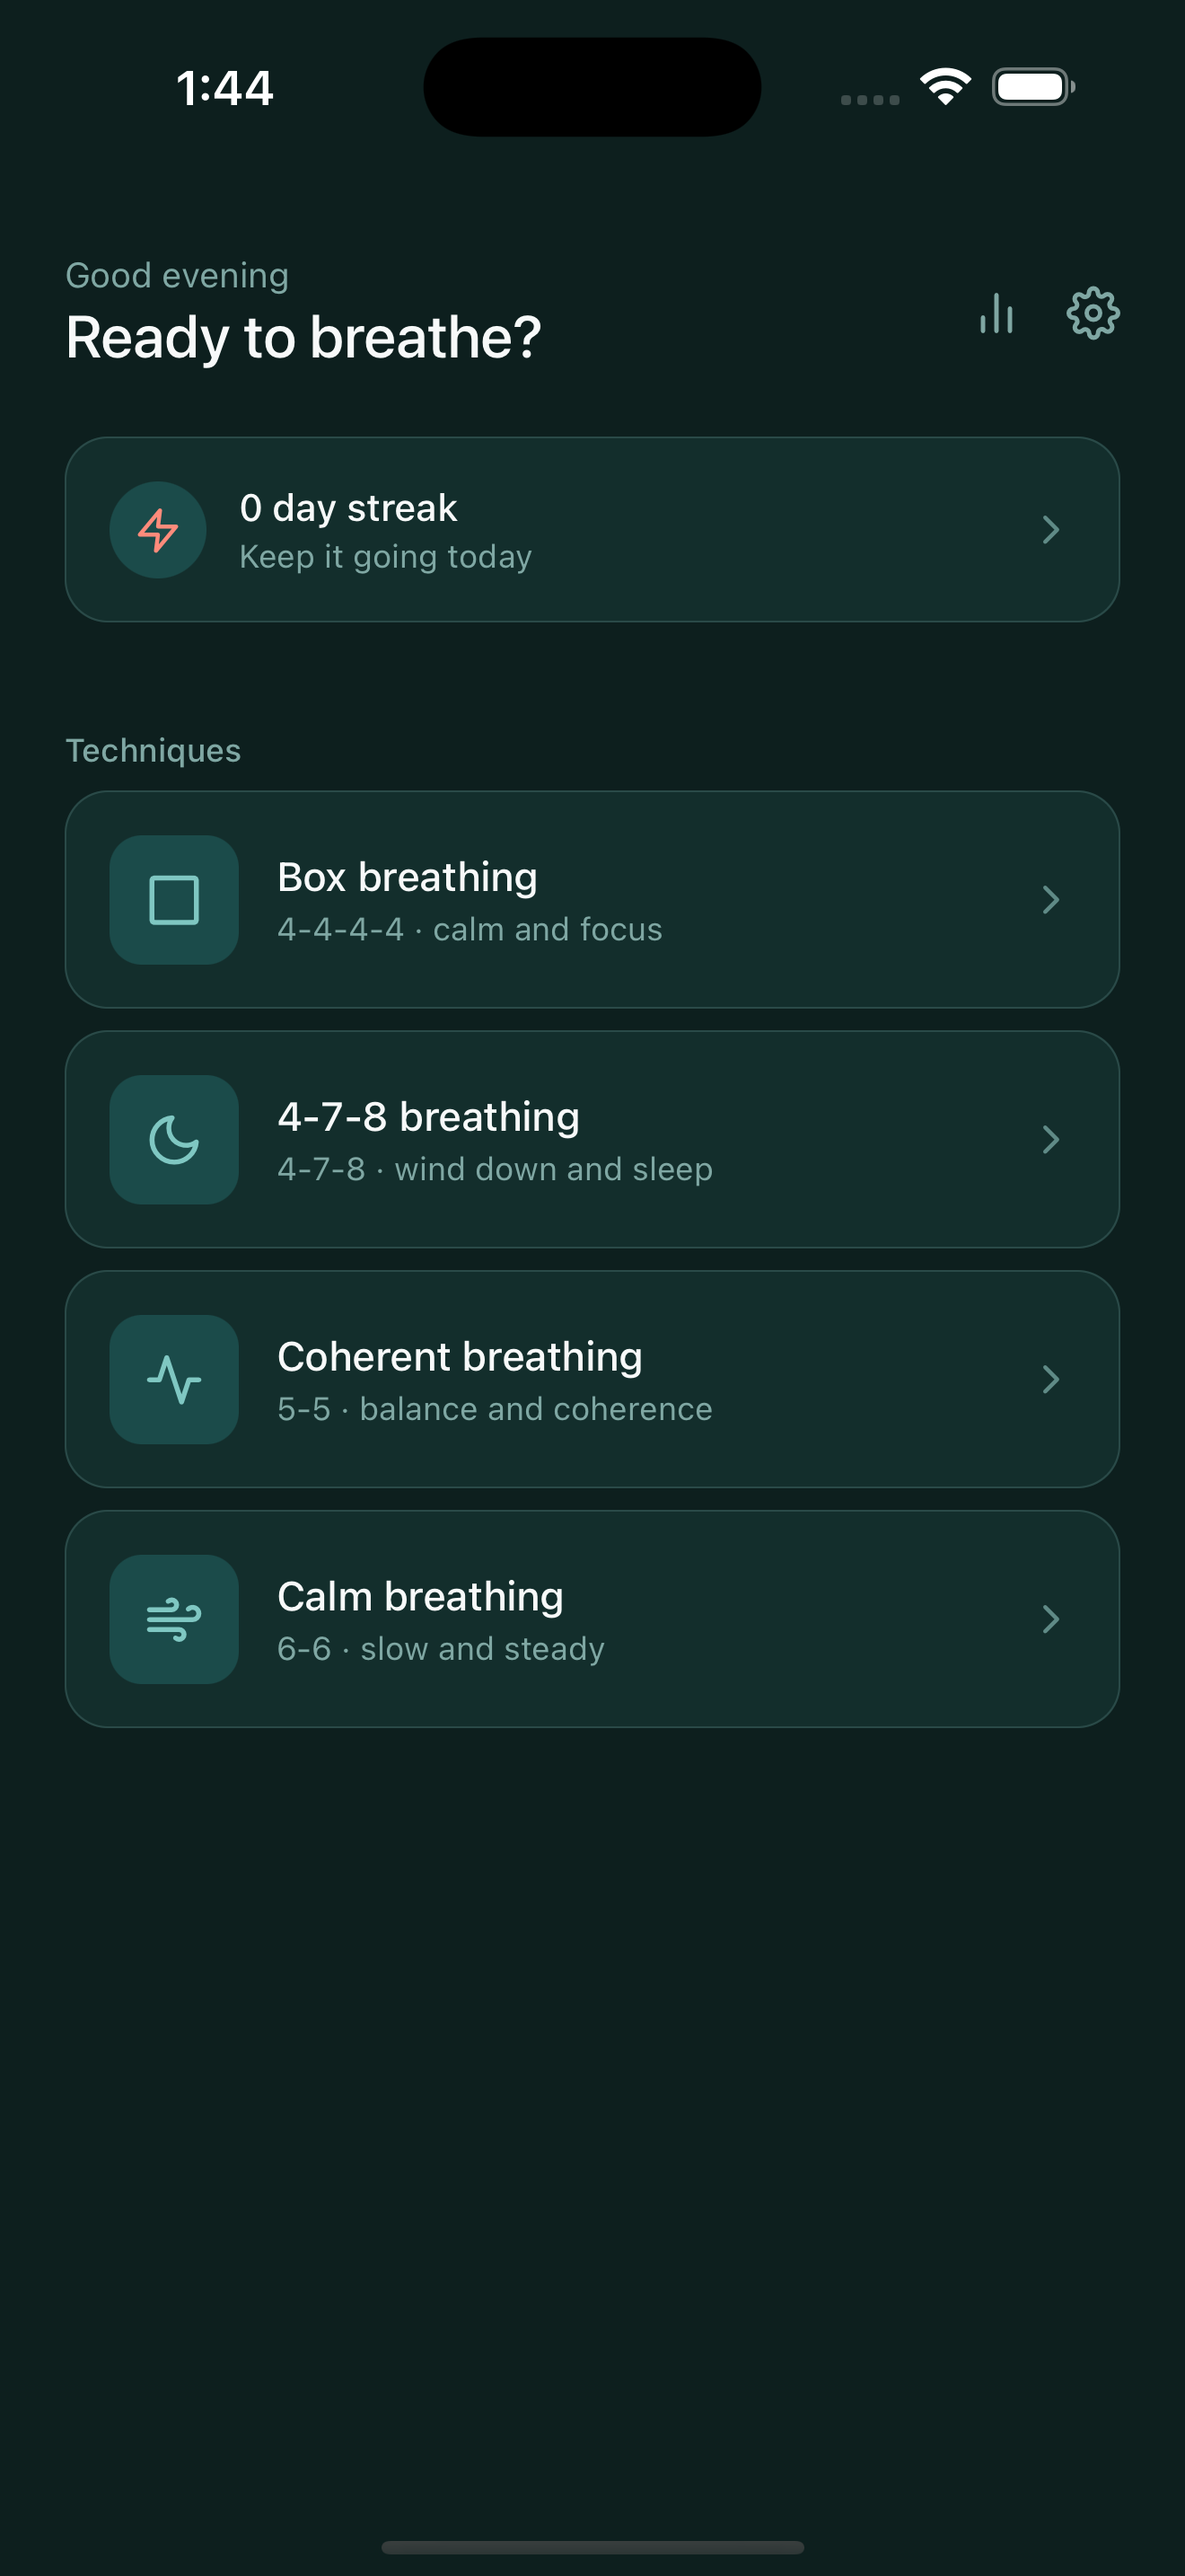
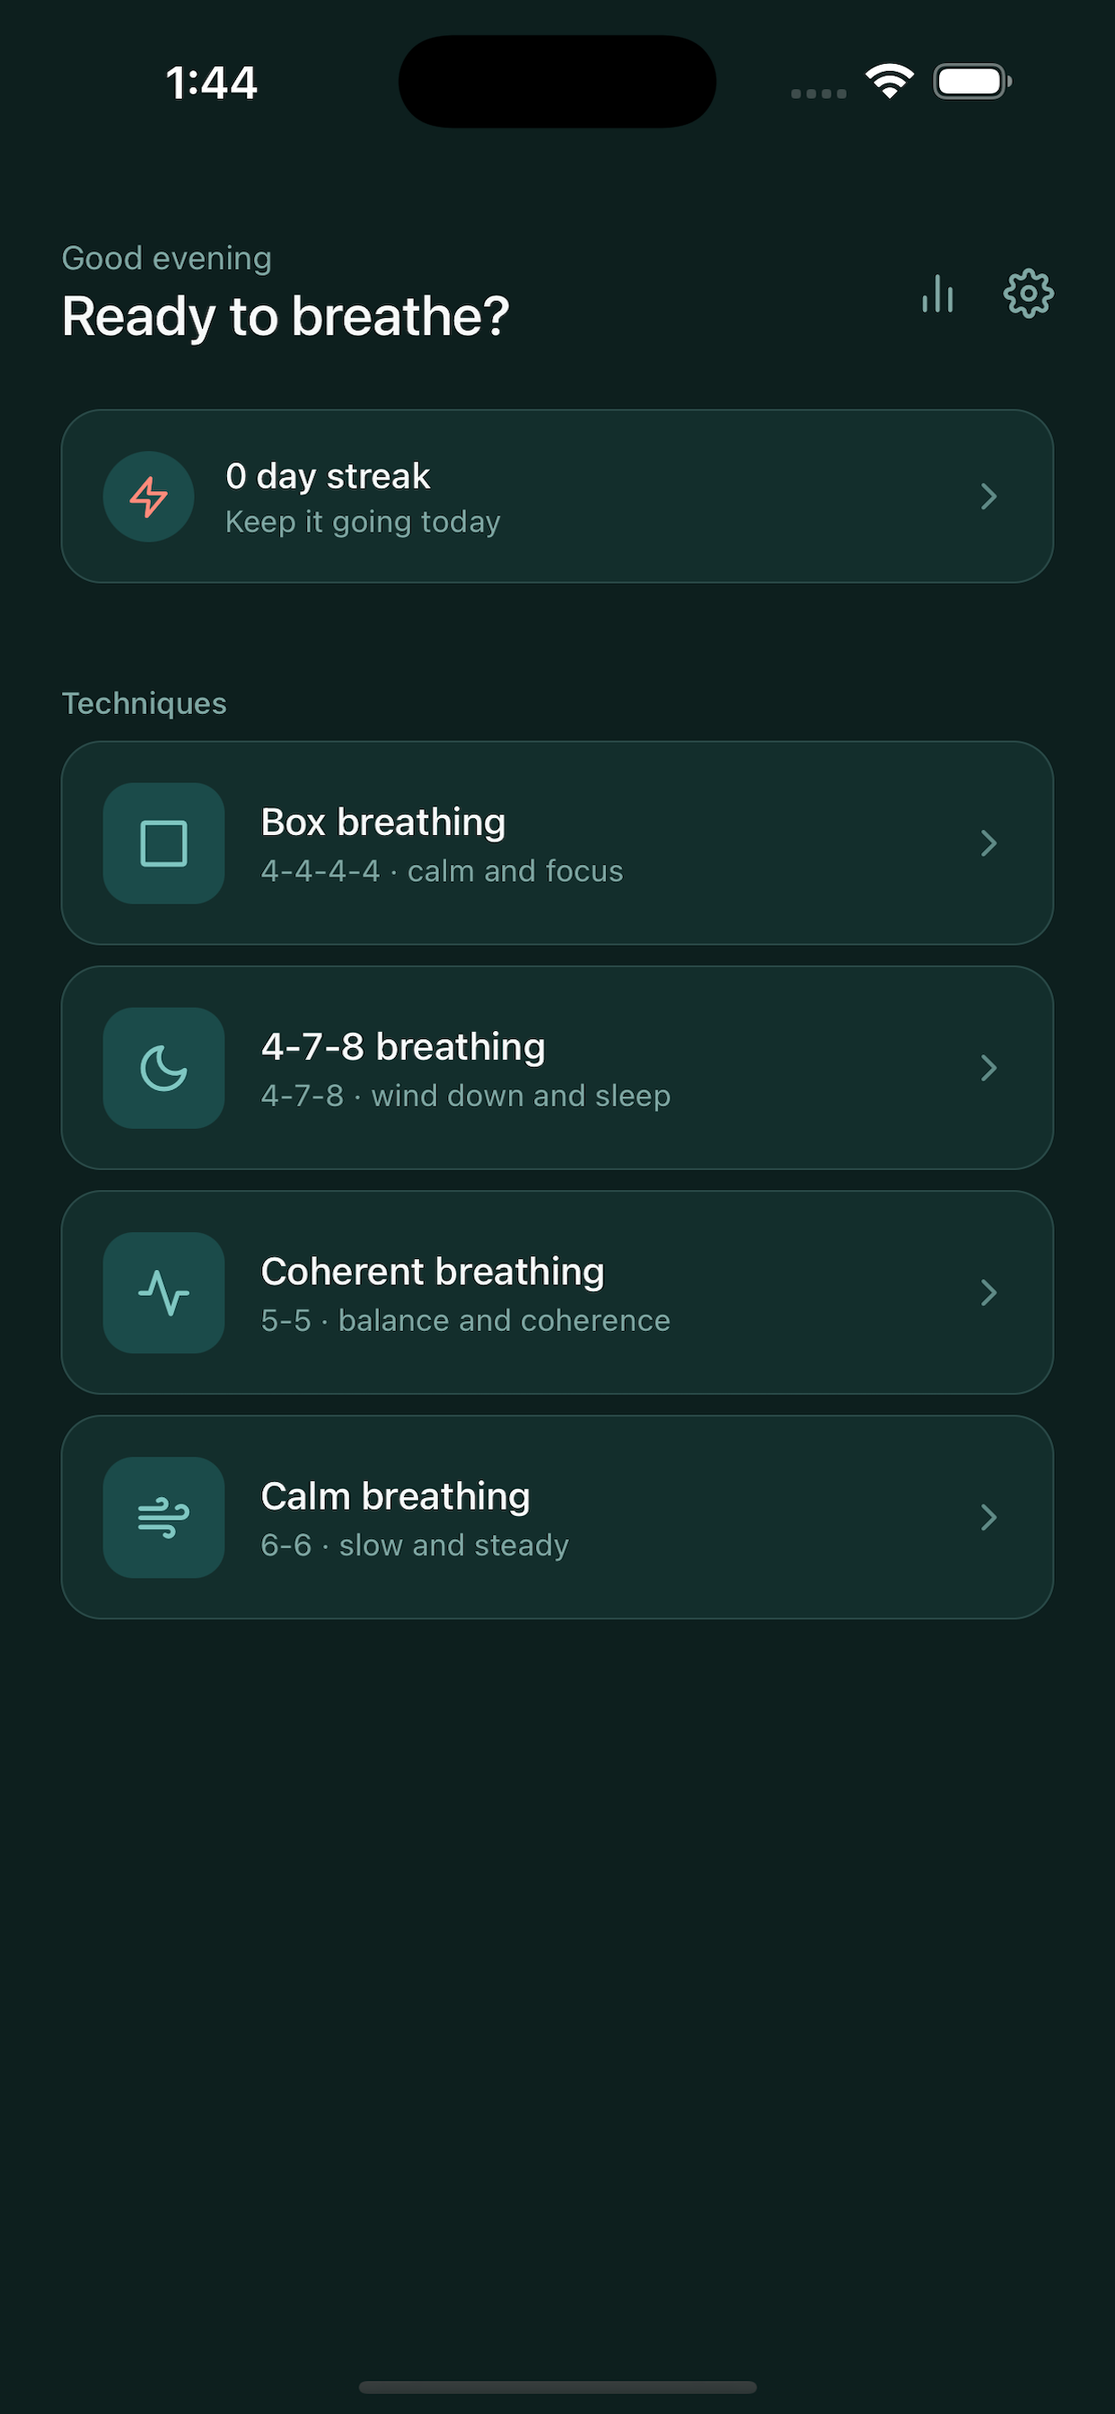
story 17b

Changed region(s): [[0.4589, 0.5, 0.4895, 0.5312]]

diff --git a/docs/support.html b/docs/support.html
@@ -1,0 +1,34 @@
+<!doctype html>
+<html lang="en">
+<head>
+  <meta charset="utf-8">
+  <meta name="viewport" content="width=device-width, initial-scale=1">
+  <title>Airloop — Support</title>
+  <style>
+    body {
+      font-family: -apple-system, BlinkMacSystemFont, "Segoe UI", Roboto, sans-serif;
+      max-width: 680px;
+      margin: 3rem auto;
+      padding: 0 1.5rem;
+      line-height: 1.6;
+      color: #1a1a1a;
+    }
+    h1 { font-size: 1.6rem; margin-bottom: 0.25rem; }
+    .updated { color: #666; font-size: 0.9rem; margin-bottom: 2rem; }
+    h2 { font-size: 1.15rem; margin-top: 2rem; }
+    a { color: #0d5c53; }
+  </style>
+</head>
+<body>
+  <h1>Airloop — Support</h1>
+  <p class="updated">Last updated: July 28, 2026</p>
+
+  <p>Airloop is a simple breathing exercise app. There's no account to manage — your session history, streak, and settings are stored locally on your device.</p>
+
+  <h2>Need help?</h2>
+  <p>For questions, feedback, or issues with the app, contact: <a href="mailto:support@technologynext.org">support@technologynext.org</a></p>
+
+  <h2>Privacy</h2>
+  <p>See the <a href="./privacy-policy.html">Privacy Policy</a> for details on how your data is handled.</p>
+</body>
+</html>

diff --git a/NEXT_STEPS.md b/NEXT_STEPS.md
@@ -234,6 +234,17 @@ listing.
 - Choose category (Health & Fitness) and age rating
 - Acceptance: all App Store Connect listing fields complete
 
+### Story 17b: Support page for App Store listing ✅ DONE
+As a developer, I need a Support URL for App Store Connect, separate from
+the privacy policy.
+
+- Create `docs/support.html` — same minimal, self-contained style as
+  `privacy-policy.html`, contact email only (`support@technologynext.org`)
+- Hosted via the same GitHub Pages setup as the privacy policy:
+  `https://technologybasics.github.io/airloop/support.html`
+- Acceptance: support URL live and accessible, entered in App Store
+  Connect's "Support URL" field
+
 ### Story 18: Submit for review
 As a developer, I want to submit the final build for Apple review.
 
